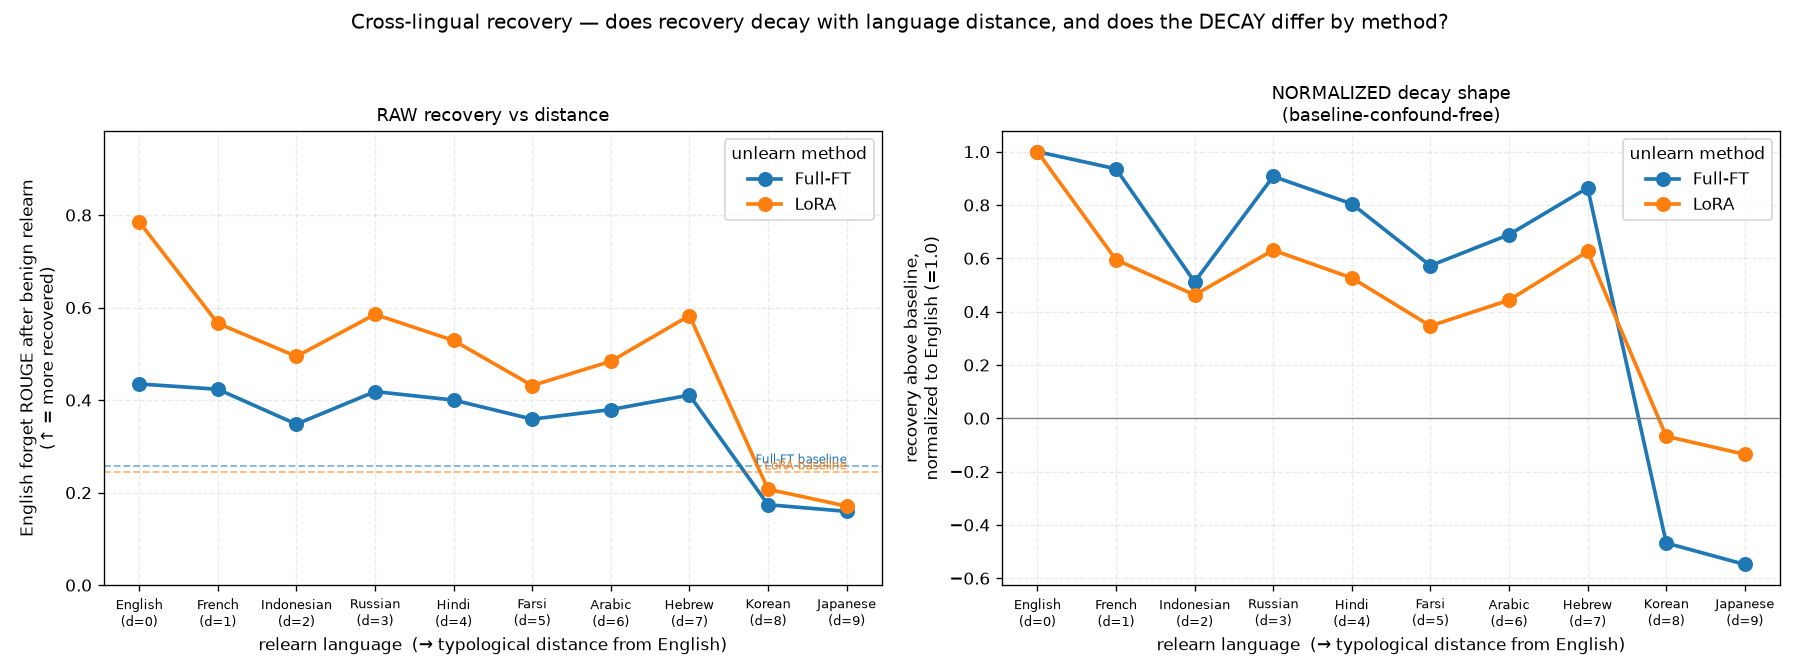
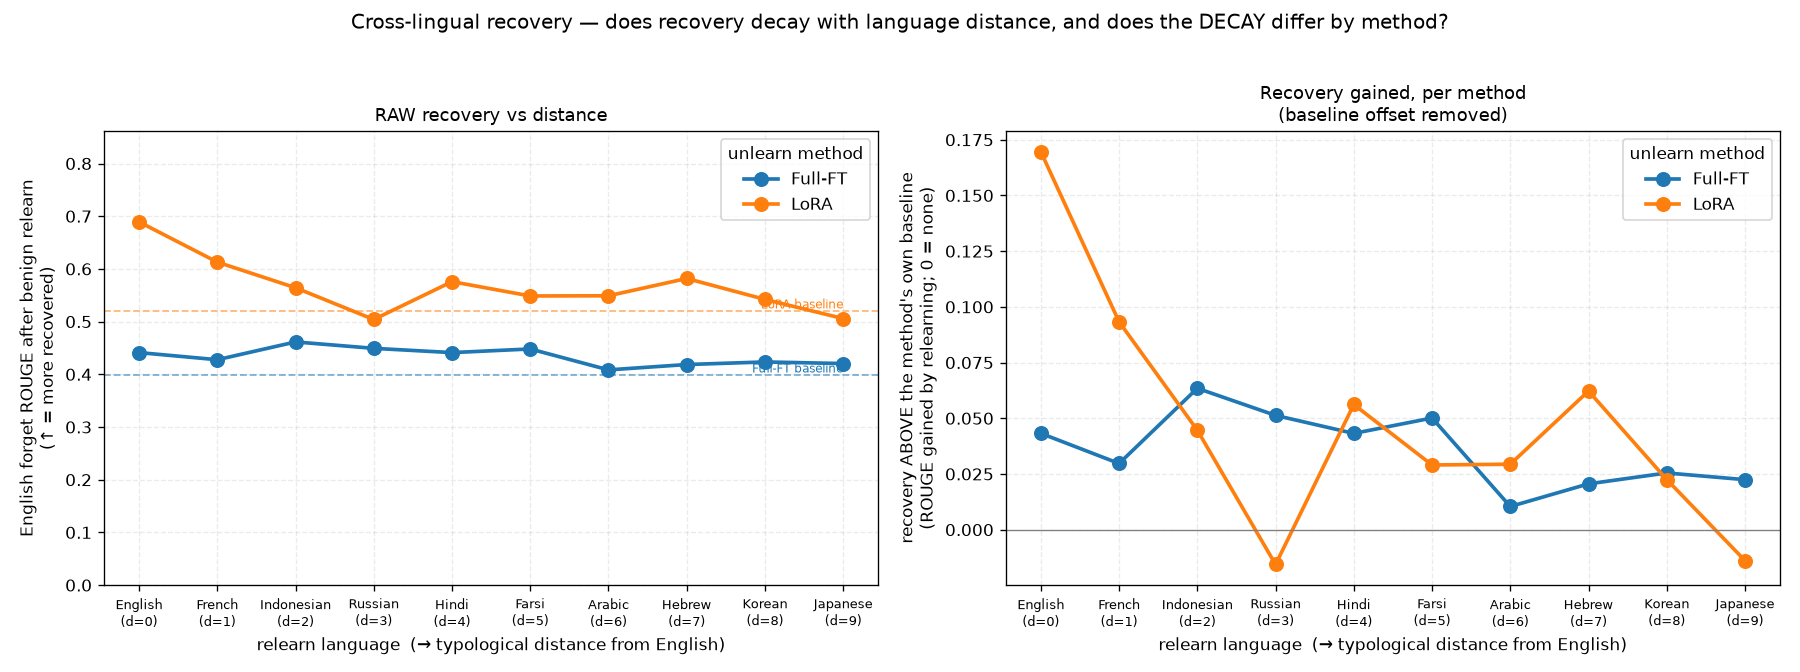
update unlearning

diff --git a/studies/crosslingual_recovery/plots/plot_crosslingual_pilot.py b/studies/crosslingual_recovery/plots/plot_crosslingual_pilot.py
@@ -104,12 +104,11 @@ def main():
         axL.text(max(xs), base, f" {METHOD_NAME.get(m, m)} baseline",
                  fontsize=7, color=color, ha="right", va="bottom")
 
-        # normalized: (recovery - baseline) / (English recovery - baseline)
+        # recovery ABOVE this method's own unlearned baseline (raw delta). Removes the
+        # per-method baseline OFFSET so both methods start from 0, WITHOUT dividing by
+        # a tiny English number (the old normalize-to-English exploded Full-FT's noise).
         above = [data[l][max(data[l])] - base for l in langs]
-        en_above = data["en"][max(data["en"])] - base if "en" in data else None
-        if en_above and abs(en_above) > 1e-6:
-            axR.plot(xs, [a / en_above for a in above], "o-", lw=2.2, ms=8,
-                     color=color, label=METHOD_NAME.get(m, m))
+        axR.plot(xs, above, "o-", lw=2.2, ms=8, color=color, label=METHOD_NAME.get(m, m))
 
     present = sorted({l for d in rows.values() for l in d if l != "baseline"},
                      key=lambda l: LANG_DIST.get(l, 99))
@@ -124,8 +123,8 @@ def main():
     axL.set_ylim(0, ymax * 1.25)
     axL.set_title("RAW recovery vs distance", fontsize=11)
     axR.axhline(0, color="grey", lw=0.8)
-    axR.set_ylabel("recovery above baseline,\nnormalized to English (=1.0)", fontsize=10)
-    axR.set_title("NORMALIZED decay shape\n(baseline-confound-free)", fontsize=11)
+    axR.set_ylabel("recovery ABOVE the method's own baseline\n(ROUGE gained by relearning; 0 = none)", fontsize=10)
+    axR.set_title("Recovery gained, per method\n(baseline offset removed)", fontsize=11)
     fig.suptitle("Cross-lingual recovery — does recovery decay with language distance, "
                  "and does the DECAY differ by method?", fontsize=12)
     fig.tight_layout(rect=(0, 0, 1, 0.96))

diff --git a/studies/crosslingual_recovery/plots/plot_unlearn_curve.py b/studies/crosslingual_recovery/plots/plot_unlearn_curve.py
@@ -1,0 +1,46 @@
+"""Plot the unlearning dynamics (TOFU Figure 8) for the cross-lingual study.
+
+Reads results/curves/unlearn_curve_*.json (written when unlearning ran with
+--track-curve, e.g. by crosslingual_unlearn_matched.sbatch) and renders a 3-panel
+ROUGE / Probability / Truth-Ratio figure vs unlearning step, one line per eval
+split, one figure per checkpoint (Full-FT, matched LoRA).
+
+    python studies/crosslingual_recovery/plots/plot_unlearn_curve.py
+    -> figures/unlearn_curve_<run>.png  (one per curve JSON)
+
+CPU-only (no torch).
+"""
+import json
+import sys
+from pathlib import Path
+
+_r = Path(__file__).resolve()
+while _r != _r.parent and not (_r / "src").is_dir():
+    _r = _r.parent
+sys.path.insert(0, str(_r))
+
+STUDY = Path(__file__).resolve().parents[1]
+RESULTS = STUDY / "results"
+FIGS = STUDY / "figures"
+
+from src.evaluation.plotting import unlearn_curve
+from src.utils.logging_utils import get_logger
+
+logger = get_logger("plot_unlearn_curve")
+
+
+def main():
+    files = sorted((RESULTS / "curves").glob("unlearn_curve_*.json"))
+    if not files:
+        logger.warning("No unlearn_curve_*.json in %s — run the unlearning with "
+                       "--track-curve first (crosslingual_unlearn_matched.sbatch).",
+                       RESULTS / "curves")
+        return
+    for f in files:
+        curve = json.load(open(f))
+        unlearn_curve(curve, str(FIGS))
+        logger.info("Plotted %s (%d points)", f.name, len(curve.get("history", [])))
+
+
+if __name__ == "__main__":
+    main()
